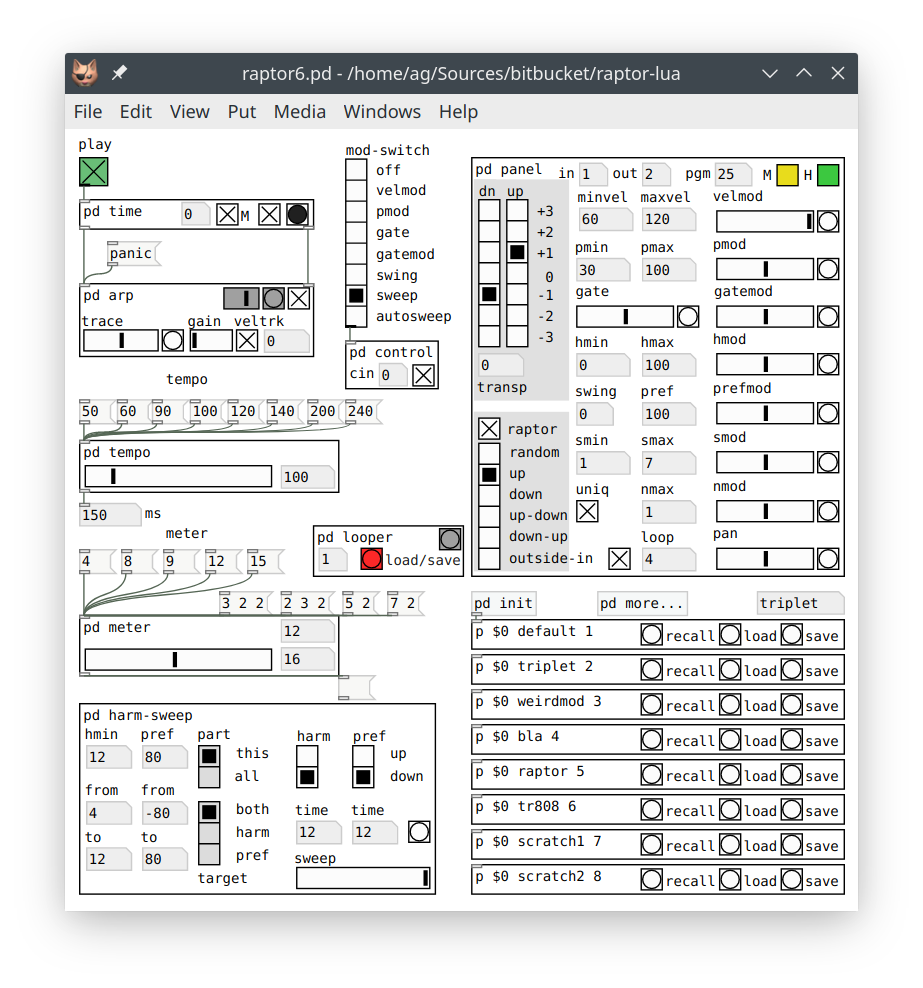
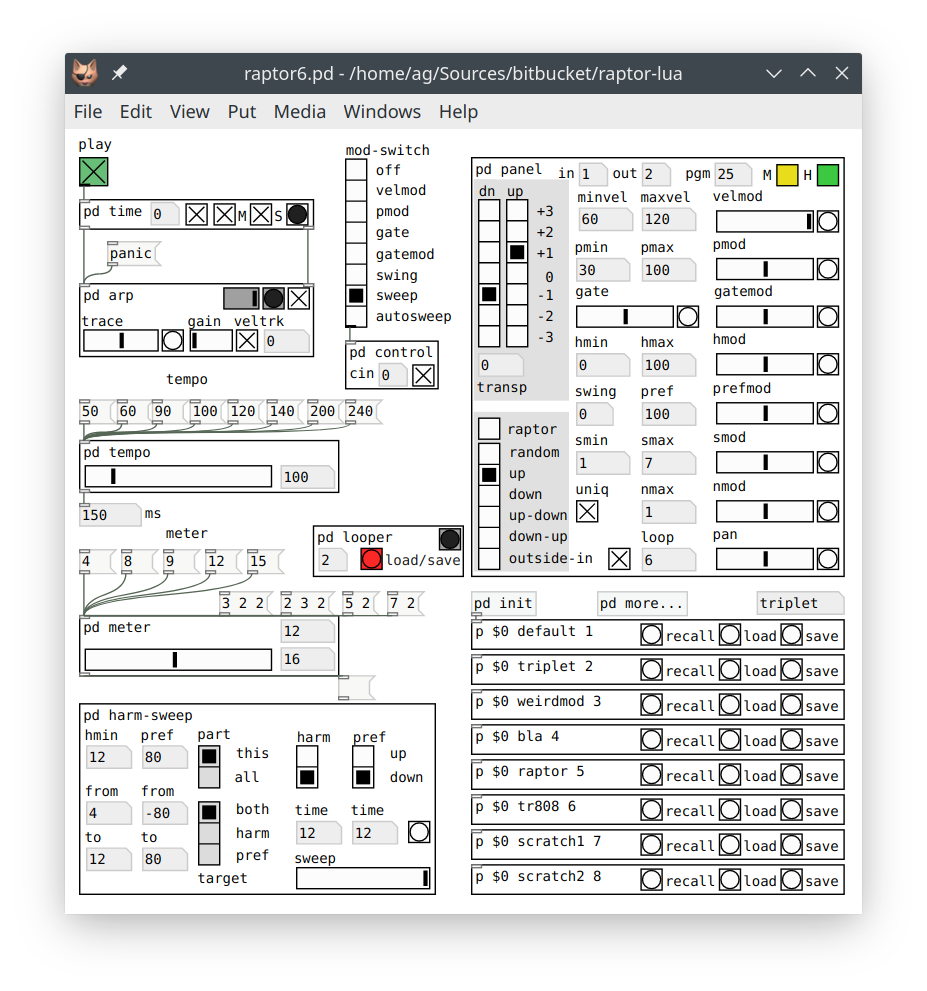
Add a toggle for MIDI clock sync, update documentation.

Changed region(s): [[0.0607, 0.0607, 0.9404, 0.9109], [0.546, 0.0607, 0.7281, 0.0911]]

diff --git a/README.md b/README.md
@@ -5,7 +5,7 @@ Albert Gräf <aggraef@gmail.com>
 Dept. of Music-Informatics  
 Johannes Gutenberg University (JGU) Mainz, Germany
 
-The raptor6.pd patch implements an experimental arpeggiator program based on the mathematical music theories of the contemporary composer Clarence Barlow. This is already the 6th iteration of this program, now ported to Lua so that it can be run easily with any Pd version. Compared to earlier versions, it also features much cleaner source code and some other noticeable improvements under the hood. We recommend running this patch with [Purr Data][], Jonathan Wilkes' modern Pd flavor, as it has all the required externals including Pd-Lua on board, and the layout of the GUI has been optimized for that version. But the patch should also work fine in "vanilla" [Pd][] if you have the [Pd-Lua][] and [Zexy][] externals installed (a version of Pd-Lua for Lua 5.3 or later is required, you can find this under the given URL). The screenshot below shows the patch running in Purr Data.
+The raptor6.pd patch implements an experimental arpeggiator program based on the mathematical music theories of the contemporary composer and computer music pioneer Clarence Barlow. This is already the 6th iteration of this program, now ported to Lua so that it can be run easily with any Pd version. Compared to earlier versions, it also features a much cleaner source code and many noticeable improvements, including more robust timing, MIDI clock sync, and a built-in looper. We recommend running this patch with [Purr Data][], Jonathan Wilkes' modern Pd flavor, as it has all the required externals including Pd-Lua on board, and the layout of the GUI has been optimized for that version. But the patch should also work fine in "vanilla" [Pd][] if you have the [Pd-Lua][] and [Zexy][] externals installed (a version of Pd-Lua for Lua 5.3 or later is required, you can find this under the given URL). The screenshot below shows the patch running in Purr Data.
 
 <img src="raptor6.png" alt="raptor6" style="zoom: 67%;" />
 
@@ -13,7 +13,7 @@ Raptor is quite advanced as arpeggiators go, it's really a full-blown algorithmi
 
 Using the patch is easy enough, however. Hook up your MIDI keyboard and synthesizer to Pd's MIDI input and output, respectively, press the green `play` button and just play some chords. I'm mostly using Raptor with a MIDI guitar and a [Nektar PACER][] foot pedal these days, so the patch is somewhat tailored for that use case, but it also works fine with just a MIDI keyboard and a free software synth such as [Qsynth][].
 
-This project is still work in progress. In particular, the included presets need some work, but hey, you get them for free, so feel free to modify and use them for whatever purpose! ;-) Bug reports and other contributions are welcome. And I'm always curious about music made with my programs, so please do send me links to music produced with Raptor!
+This project is still work in progress. In particular, the included presets need some work, but hey, you get them for free, so feel free to modify and use them for whatever purpose! ;-) Bug reports and other contributions are welcome. I'm always curious about music made with my programs, so please do send me links to music produced with Raptor!
 
 ## Getting Started
 
@@ -31,19 +31,19 @@ Raptor's note generation process is guided by the chosen *meter* which determine
 
 In any case, Raptor suggests a base pulse when you specify a meter. Traditionally, these are powers of 2, so Raptor calculates the base pulse by rounding up the number of beats to the next power of 2 (e.g., 4 becomes 4/4, 6 becomes 6/8, 15 becomes 15/16, etc.). If the suggested default isn't what you want, you can change it manually after setting the number of beats. E.g., to get a 9/8 meter, you'd enter `9` using the big slider or the numbox at the top, then change the default `16` pulse to `8` in the numbox at the bottom of the `meter` subpatch.
 
-*Tempo* may be specified using the traditional quarter beats per minute (bpm) value. The corresponding pulse period in ms is calculated automatically and displayed in the numbox labeled `ms`. You can also enter the period and have the corresponding bpm value calculated instead. Note that the pulse period depends on the base pulse of the meter. E.g., at a tempo of 120 bpm, quarters run at 500 ms per step, 8ths at double speed (250 ms/step), 16ths at quadruple speed (125 ms/step), etc. Seasoned musicians should be well familiar with all this, so let's move on to the next important topic of *time*. 
+*Tempo* may be specified using the traditional quarter beats per minute (bpm) value. The corresponding pulse period in ms is calculated automatically and displayed in the numbox labeled `ms`. You can also enter the period and have the corresponding bpm value calculated instead. Note that the pulse period depends on the base pulse of the meter. E.g., at a tempo of 120 bpm, quarters run at 500 ms per step, 8ths at double speed (250 ms/step), 16ths at quadruple speed (125 ms/step), etc. Seasoned musicians should be well familiar with all this, so let's move on to the closely related topic of *time*. 
 
 ## Time
 
-Transport starts rolling as soon as you turn on the big green `play` toggle at the top of the Raptor patch, and stops when turning it off again, *after* the arpeggiator finishes playing the current bar (the beat indicator in the `arp` subpatch changes to red until the arpeggiator really stops; if needed, you can also start and stop the arpeggiator instantly with the second, unlabeled toggle in the `time` subpatch). Playback usually starts at the beginning of a bar, but you can also start on an *anacrusis* (an upbeat) if you enter the pulse offset (counting from zero) into the little numbox in the `time` subpatch.
+Transport starts rolling as soon as you turn on the big green `play` toggle at the top of the Raptor patch, and stops when turning it off again, *after* the arpeggiator finishes playing the current bar (the beat indicator in the `arp` subpatch changes to red until the arpeggiator really stops; if needed, you can also start and stop transport instantly with the leftmost, unlabeled toggle in the `time` subpatch). Playback usually starts at the beginning of a bar, but you can also have an *anacrusis* (an upbeat) if you enter the pulse offset (counting from zero) into the little numbox in the `time` subpatch. This value can also be negative, to indicate a position relative to the *end* of a bar (e.g., -1 tells Raptor to start on the *last* beat of a bar).
 
-Whenever transport is rolling, Raptor generates pulses according to the current meter and tempo settings, and the arpeggiator creates note output at each pulse from the calculated pulse strengths and the notes that you're currently playing. At any point in time, you can change *any* of the arpeggiator's parameters, including arpeggiation mode, meter and tempo, and (of course) the notes you play, and Raptor will respond immediately by changing the sequenced pattern accordingly.
+When transport is rolling, Raptor generates pulses according to the current meter and tempo settings, and the arpeggiator creates note output at each pulse from the calculated pulse strengths and the notes that you're currently playing. At any point in time, you can change *any* of the arpeggiator's parameters, including arpeggiation mode, meter and tempo, and (of course) the notes you play, and Raptor will respond immediately by changing the sequenced pattern accordingly.
 
 You can even have a whole band of Raptors accompanying you, by running multiple instances of the main patch in concert in the same Pd instance. In that case, *exactly one* of the instances must be selected as the "time master" which takes care of the transport, as indicated by the `M` toggle in the `time` subpatch. This happens automatically if you press the big green `play` toggle in one of the instances.
 
-Finally, Raptor can also sync to an external time source via MIDI clock messages, in which case that time source takes over Raptor's transport and determines tempo and pulse period. Most DAWs support this, you just need to enable MIDI clock output in the DAW and connect it to any of Pd's MIDI inputs. As soon as Raptor starts receiving MIDI clocks, the pulse button in the `time` patch turns red to indicate MIDI clock sync, playback starts automatically, and the current tempo and pulse period are displayed in the tempo section. Playback stops as soon as Raptor receives a MIDI stop message, or hasn't received MIDI clocks for a little while (3 seconds in the current implementation, but this value can be changed in the `midiclock` abstraction).
+Finally, Raptor can also sync to an external time source via MIDI clock messages, in which case that time source takes over Raptor's transport and determines tempo and pulse period. Most DAWs support this, you just need to enable MIDI clock output in the DAW, connect it to any of Pd's MIDI inputs, and make sure that clock sync is enabled in Raptor (the `S` toggle in the `time` subpatch must be engaged). As soon as Raptor starts receiving MIDI clocks, the pulse button in the `time` patch turns red, playback starts automatically, and the current tempo and pulse period are displayed in the tempo section. Playback stops as soon as Raptor receives a MIDI stop message, or hasn't received MIDI clocks for a short while (3 seconds in the current implementation, but this value can be changed in the `midiclock` abstraction).
 
-**NOTE:** While MIDI sync should always work if your DAW supports it, pulses may appear to be out of phase if the meter settings don't match up, or if your DAW lacks support for song position pointer (SPP) messages and you start playback with an upbeat. Sometimes it may be fun to do this on purpose, but usually you'll want to make sure that you have meter and anacrusis set correctly to avoid such mishaps.
+While MIDI sync should always work if your DAW spits out any MIDI clock messages at all, pulses may occasionally appear to be "shifted" (out of phase) if the meter settings don't match up, or if your DAW lacks support for song position pointer (SPP) messages and you start playback in the middle of a bar. Usually you'll want to prevent that by having meter and anacrusis set to match the DAW session.
 
 ## Harmonicity
 
@@ -55,11 +55,11 @@ By these means, patterns become a lot more varied, containing notes you didn't a
 
 ## Loops
 
-Version 6 of Raptor now finally has an integrated looper facility. There are two related GUI controls, a numbox-toggle pair labeled `loop`, at the bottom of the `panel` subpatch. The numbox lets you tell Raptor beforehand how many bars of output from the arpeggiator it should repeat once you engage the toggle. Turning on the toggle saves the loop in internal memory and immediately starts playing it back, turning it off again clears the loop from internal memory and resumes normal arpeggiator operation. Note that while the loop is playing, note input to the arpeggiator is suspended, so you can use your input controller to play along. Control input works normally, though, so you can also start twiddling the knobs, change presets, etc.
+Version 6 of Raptor now finally has an integrated looper facility. There are two related GUI controls, a numbox-toggle pair labeled `loop`, at the bottom of the `panel` subpatch. The numbox tells Raptor the number of bars to record. Engaging the toggle saves whatever you just played (up to the given number of bars, but the looper will also be happy with less) to an internal buffer and immediately starts looping it, indicated by briefly flashing the pulse indicator in the `loop` subpatch at the beginning of each iteration. Disengaging the toggle instantly clears the loop and resumes normal arpeggiator operation. Note that while the loop is playing, note input to the arpeggiator is suspended, so you can use your input controller to play along. Control input works normally, though, so you can also start twiddling the knobs, change presets, etc.
 
-Another numbox-toggle pair labeled `load/save` can be found in the `loop` subpatch, which lets you save the loop that is currently playing to disk and reload it later. Once a loop has been recorded and is playing back, the pulse indicator in the upper-right corner of the subpatch will briefly flash at the start of each loop iteration, and the `load/save` button turns red to indicate that you can save the loop to a file by pressing it. The file is saved in the preset folder under the name of the preset that is currently selected, with the number in the numbox (0..99) and the extension `.loop` tacked onto it. Note that you can *only* save a loop while it is still playing! Once loop playback is stopped, the `load/save` button will be its normal white color again. You can now load the saved loop at any time (even after exiting and relaunching Raptor). Both the `loop` and the `load/save` button have bindings in the PACER configuration, so they can be operated while your hands remain on your input device.
+Loops are always quantized to whole bars, so you *must* keep playing for at least one bar before pressing the `loop` button to have anything recorded. This kind of "launch quantization" should be well familiar to Ableton Live users. The main difference here is the 1-button style of operation: The looper is *always* listening, so once transport is rolling *and* you actually start playing, you just push the button to loop whatever you just played, rather than requiring a separate button press to explicitly start the recording.
 
-The looper only kicks in once transport is rolling and the arpeggiator starts playing, and it always quantizes loops to entire bars, so you *must* play at least one bar before pressing the `loop` button outputs anything. (This kind of "launch quantization" should be familiar to Ableton Live users. It is there to ensure accurate results even if you fail to hit the bar boundaries exactly when pushing the button.) Also, depending on how many steps you played before pushing the `loop` button, the loop may actually be shorter than the number of bars specified in the `loop` numbox, which only denotes the *maximum* size of the loop.
+Another numbox-toggle pair labeled `load/save` can be found in the `loop` subpatch, which lets you save the loop that is currently playing to disk and reload it later. When a loop is playing, the `load/save` button turns red to indicate that you can save the loop to a file by pressing it. The file is saved in the preset folder under the name of the preset that is currently selected, with the number in the numbox (0..99) and the extension `.loop` tacked onto it, and can be reloaded later by pressing the `load/save` button again when no loop is playing. Both the `loop` and the `load/save` button also have PACER bindings, so they can be operated while your hands remain on your input device.
 
 ## The GUI
 
@@ -67,13 +67,13 @@ Before we go into Raptor's MIDI controls, let's have a quick look at some import
 
 First, in the main patch there's the `mod-switch` control (saved in the patch) which assigns some PACER controls to various different parameters for hands-free operation. Most related controls can be found in the `panel` subpatch; the most prominent of these are the yellow mute toggle (labeled `M`) which mutes the arpeggiator (stops all note output), and the green hold toggle (labeled `H`) which holds all note input in memory, so that the arpeggiator keeps playing the same pattern while this toggle is engaged. These are mostly intended for live control and automation, so they both have MIDI bindings (CC64 and CC67). Of course, you can also operate them in the GUI, but their state is neither saved in the patch nor in presets.
 
-The `mod-switch` control goes into the `control` subpatch which implements most of Raptor's MIDI control logic, including the interface to the PACER. This subpatch has a numbox (labeled `cin`) and a toggle (both saved in the patch) which allow you to set Raptor's control input channel, and to enable or disable control input separately for each Raptor instance. By default, the MIDI channel is set to 0 (omni) and control input is enabled. The control input toggle is mostly for interactive usage, e.g., if you need to control individual instances in a multi-Raptor setup via MIDI. The MIDI channel can be set (and saved) to your liking. E.g., it often makes sense to have all your control inputs, such as the PACER, a fader box, or MIDI automation from your DAW, go into a separate Pd input port, so that normal MIDI input from other devices doesn't accidentally interfere with the control channel. Pd has a set of 16 MIDI channels for each MIDI input, so you can set the control input channel to 17 to receive control on channel 1 on the second input, channel 33 for the third input, etc. 
+The `mod-switch` control goes into the `control` subpatch which implements most of Raptor's MIDI control logic, including the interface to the PACER. This subpatch has a numbox (labeled `cin`) and a toggle (both saved in the patch) which allow you to set Raptor's control input channel, and to enable or disable control input separately for each Raptor instance. By default, the MIDI channel is set to 0 (omni) and control input is enabled. The control input toggle is mostly for interactive usage, e.g., if you need to control individual instances in a multi-Raptor setup via MIDI. The MIDI channel can be set (and saved) to your liking. E.g., it often makes sense to have all your control inputs, such as the PACER, a fader box, or MIDI automation from your DAW, go into a separate Pd input port, so that normal MIDI input from other devices doesn't accidentally interfere with the control channel. Pd has a set of 16 MIDI channels for each MIDI input, so you can set the control input channel, e.g., to 17 in order to receive control data on channel 1 of the second MIDI input.
 
-Next, in the `time` subpatch there is the time master (`M`) toggle (saved in the patch) which we already discussed in the "Time" section. There's also a second (unlabeled) start/stop toggle (not saved) which enables you to start and stop the sequence manually, and a pulse button to trigger individual pulses in a step-wise fashion, which can be useful for debugging purposes. As discussed in the "Time" section, the pulse button also goes red to indicate MIDI clock sync, in which case you better not mess with it to keep Raptor in sync with the time source. Also, the little anacrusis numbox on the left will set the pulse offset from the beginning of a bar (counting from zero) when playback starts. This is filled in automatically if your DAW sends song position pointer (SPP) messages, but you can also set it manually (whether using MIDI clock sync or not) if you need to start playback on an anacrusis.
+Next, in the `time` subpatch there are the time master and MIDI clock sync toggles (labeled `M` and `S`, respectively, both saved in the patch), which we already discussed in the "Time" section. There's another (unlabeled) start/stop toggle (not saved) which enables you to start and stop the sequence manually, and a pulse button to trigger individual pulses in a step-wise fashion, which can be useful for debugging purposes. As discussed in the "Time" section, the pulse button also goes red to indicate MIDI clock sync, in which case you better not mess with it to keep Raptor in sync with the time source. Also, the little anacrusis numbox on the left will set the pulse offset from the beginning of a bar (counting from zero) when playback starts. This is filled in automatically if your DAW sends song position pointer (SPP) messages, but you can also set it manually (whether using MIDI clock sync or not) if you need to start playback on an upbeat.
 
 Last but not least, there's the `arp` subpatch containing the guts of the arpeggiator itself. You can send a `panic` message to the arpeggiator to kill hanging notes, and switch the metronome on and off with the toggle control in the upper-right corner (saved in the patch). A gray slider gives an indication of the pulse strengths, and the gray beat indicator next to it briefly flashes at the beginning of each bar. You'll also notice that this indicator temporarily goes red if you stop the sequence, until the arpeggiator finishes playing the current bar.
 
-In the second row you find the `trace` control (saved in the patch) which changes the amount of time that note-offs are delayed. This produces a kind of "legato" effect, making notes stick around a little longer while you're changing chords. The slider goes from 0 to 600 ms, the default being 300 ms (the button to the right of the slider resets the control to that value), setting it to zero disables the effect. There's also a `gain` control which sets the input gain of the *velocity tracker*, which can be enabled or disabled with the `veltrk` toggle (saved in the patch). The purpose of the velocity tracker is to calculate a kind of envelope from the velocities of the notes that you play and adjust the velocities of output notes generated by the arpeggiator accordingly, so that they follow your performance. The current envelope value is displayed in the number box to the right of the toggle, and can also be changed manually there if needed. Alternatively, the `gain` control, which is bound to the MIDI volume controller (CC7) and also stored in presets, allows you to boost the envelope value on the fly if needed. This is a quick remedy if your MIDI controller produces very low velocities, as some controllers do, or you could also use it as an expression control. But note that the `gain` value is just for amplification, not attenuation; changing the envelope value in the numbox goes both ways.
+In the second row you find the `trace` control (saved in the patch) which changes the amount of time that note-offs are delayed. This produces a kind of "legato" effect, making notes stick around a little longer while you're changing chords. The slider goes from 0 to 600 ms and should be adjusted to your playing style, the default being 300 ms (the button to the right resets to that value); setting it to zero disables tracing. There's also a `gain` control which sets the input gain of the *velocity tracker*, which can be enabled or disabled with the `veltrk` toggle (saved in the patch). The velocity tracker calculates a kind of envelope from the velocities of the notes that you play and adjusts the velocities of output notes generated by the arpeggiator accordingly, so that they follow your performance. The current envelope value is displayed in the number box to the right of the toggle, and can also be changed manually there if needed. Alternatively, the `gain` control, which is bound to the MIDI volume controller (CC7) and also stored in presets, allows you to boost the envelope value on the fly if needed. This is a quick remedy if your MIDI controller produces very low velocities, as some controllers do, or you could also use it as an expression control. But note that the `gain` value is just for amplification, not attenuation; changing the envelope value in the numbox goes both ways.
 
 Finally, hidden away at the bottom of the `arp` subpatch you'll find two additional toggles, `bend` and `touch` (both saved in the patch), which determine whether to pass through pitch bend and aftertouch (a.k.a. channel pressure) messages from MIDI input to output. As shipped, pass-through is enabled for pitch bend and disabled for aftertouch, but you can change this to whatever you like if you open that subpatch.
 
@@ -119,13 +119,13 @@ Most of Raptor's parameters have MIDI bindings, so they can be automatized, e.g.
 - For "discrete" controls (0-1 switches: hold, mute, raptor mode, and uniq; 0-n switches: mode), the control value is taken as is, and any value greater than the number of alternatives is clamped to the given range. In particular, for the 0-1 switches, *any* positive value means "on". For other ("continuous") controls the full 0-127 MIDI range is mapped to the parameter range given in the table, and a CC value of 64 denotes the middle of the range (which means zero for parameters with a bipolar range, such as the "bias" parameters explained below).
 - 0-100 ranges generally denote percentages, which are used for probabilities (pmin, pmax) and harmonicities (hmin, hmax). The gate parameter, which determines how long generated output notes are sustained, is also specified as a percentage of the pulse length, but its range goes from 0% (extreme staccato) to 200% (extreme legato), with 100% (the default) indicating that each note lasts exactly as long as the pulse length. Some parameters (pref, swing, as well as all the "mod" parameters) denote bias values ranging from -100% to +100% which are used for automatic modulation of other parameters according to pulse strengths in the chosen meter. A *positive* bias means that the value of the dependent parameter increases for *stronger* and decreases for *weaker* pulses; conversely, a *negative* bias indicates that the parameter increases for *weaker* and decreases for *stronger* pulses; and a *zero* bias means that the parameter does *not* vary with pulse strength at all.
 
-## Caveats and Bugs
+## Limitations and Bugs
 
 Obviously, it would be nice to have support for OSC to get around the limited resolution of MIDI CCs. But on the other hand OSC has its own quirks, and it's a lot easier to get connected with MIDI. So don't hold your breath. :)
 
-It goes without saying that Raptor's looper is (by design) quite basic. Its main purpose is to give you a simple way of repeating a generated musical phrase while you have your hands free for soloing, diffusion (knob-twiddling), or getting that beautiful pattern recorded in a DAW before it vanishes forever. If you need more functionality, then I'd recommend combining Raptor with a DAW tailored to live usage, such as Ableton Live or Bitwig Studio, or even just a standard DAW like Ardour or Reaper. This will also give you the ability to record the *input* to the arpeggiator, which makes it much easier to tweak the results in post-production. We've done that many times with earlier Raptor versions, so I know that this is feasible (albeit more arduous).
+It goes without saying that Raptor's looper is (by design) quite basic. Its main purpose is to give you a simple way of repeating a generated musical phrase while you have your hands free for soloing, diffusion (knob-twiddling), or getting that beautiful pattern recorded in a DAW before it vanishes forever. If you need more functionality, then I'd recommend combining Raptor with a DAW tailored to live usage, such as Ableton Live or Bitwig Studio, or even just a standard DAW like Ardour or Reaper. In particular, this will give you the opportunity to record the *input* to the arpeggiator (rather than its output, as the built-in looper does), which makes it much easier to tweak the results in post-production. We've been doing that with earlier Raptor versions as well as the present one; it's feasible, albeit more arduous.
 
-That said, some usability improvements are still in order. In particular, in the heat of the battle it's all too easy to loose that precious loop that you previously recorded if you accidentally press loop load/save instead of the loop start/stop button. Also, at most 256 steps can be recorded in the current implementation, and quantization is limited to whole bars right now. Moreover, the velocity tracker levels aren't saved with the loops, so a loop may sound much louder or quieter next time you load it, but you can easily work around this issue by manually adjusting the tracker level.
+That said, some usability improvements in the looper are still in order. In particular, in the heat of the battle it's all too easy to loose that precious loop that you previously recorded if you accidentally press the loop load/save button instead of start/stop. Also, at most 256 steps can be recorded and quantization is limited to whole bars in the current implementation. Moreover, the velocity tracker levels aren't saved with the loops, so a loop may sound much louder or quieter next time you load it, but you can easily work around this issue by manually adjusting the tracker level.
 
 Anything else that seems to be missing or not working properly? File a bug report, or (better yet) submit a pull request!
 
